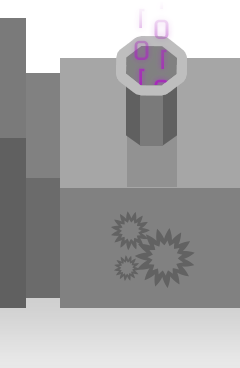
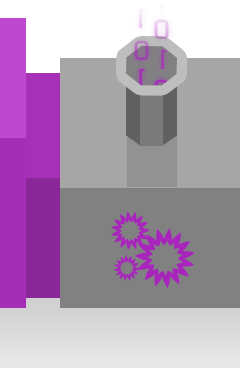
factory [dis]infect animation

Changed region(s): [[0.0, 0.0299, 0.2625, 0.837], [0.4667, 0.5679, 0.8167, 0.7772]]

diff --git a/core/src/com/hhsfbla/cgs/Factory.java b/core/src/com/hhsfbla/cgs/Factory.java
@@ -17,8 +17,14 @@ public class Factory extends Obstacle {
 		put(DIR_LEFT, Images.getAnimation("factory-infected-left-%d.png", 1, 14, 0.05f, PlayMode.LOOP));
 		put(DIR_RIGHT, Images.getAnimation("factory-infected-right-%d.png", 1, 14, 0.05f, PlayMode.LOOP));
 	}};
-	private static final TreeMap<Integer, Animation> INFECT_ANIMATION = null;
-	private static final TreeMap<Integer, Animation> DISINFECT_ANIMATION = null;
+	private static final TreeMap<Integer, Animation> INFECT_ANIMATION = new TreeMap<Integer, Animation>() {{
+		put(DIR_LEFT, Images.getAnimation("factory-left-infect-%d.png", 0, 15, 0.05f));
+		put(DIR_RIGHT, Images.getAnimation("factory-right-infect-%d.png", 0, 15, 0.05f));
+	}};;
+	private static final TreeMap<Integer, Animation> DISINFECT_ANIMATION = new TreeMap<Integer, Animation>() {{
+		put(DIR_LEFT, Images.getAnimation("factory-left-infect-%d.png", 15, 0, 0.05f));
+		put(DIR_RIGHT, Images.getAnimation("factory-right-infect-%d.png", 15, 0, 0.05f));
+	}};;;
 
 	private boolean infected;
 	private Virus infector;
